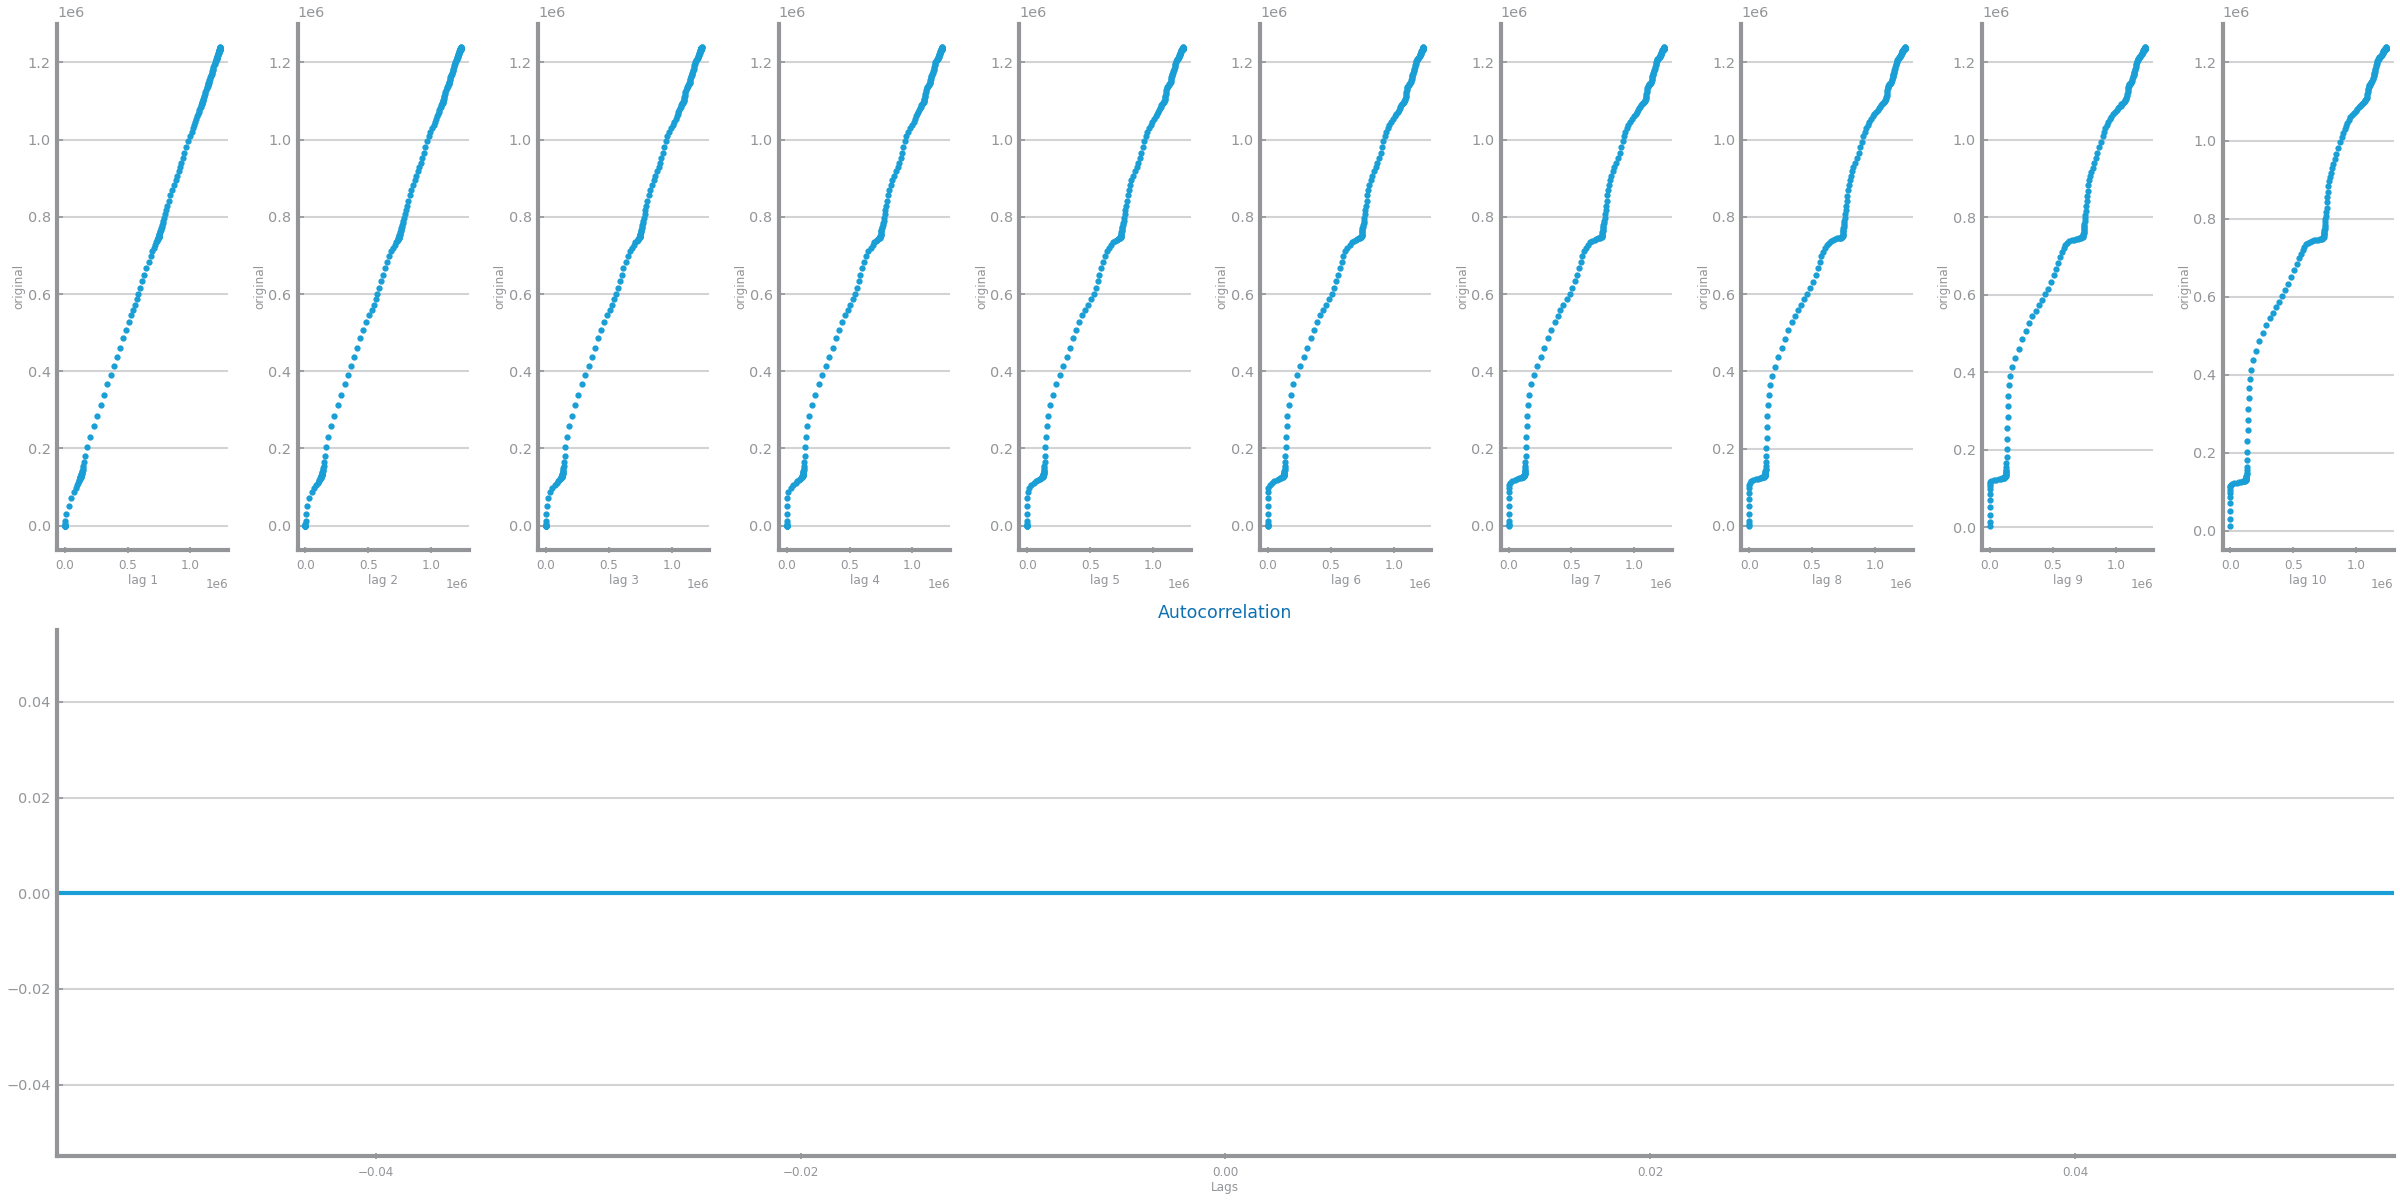
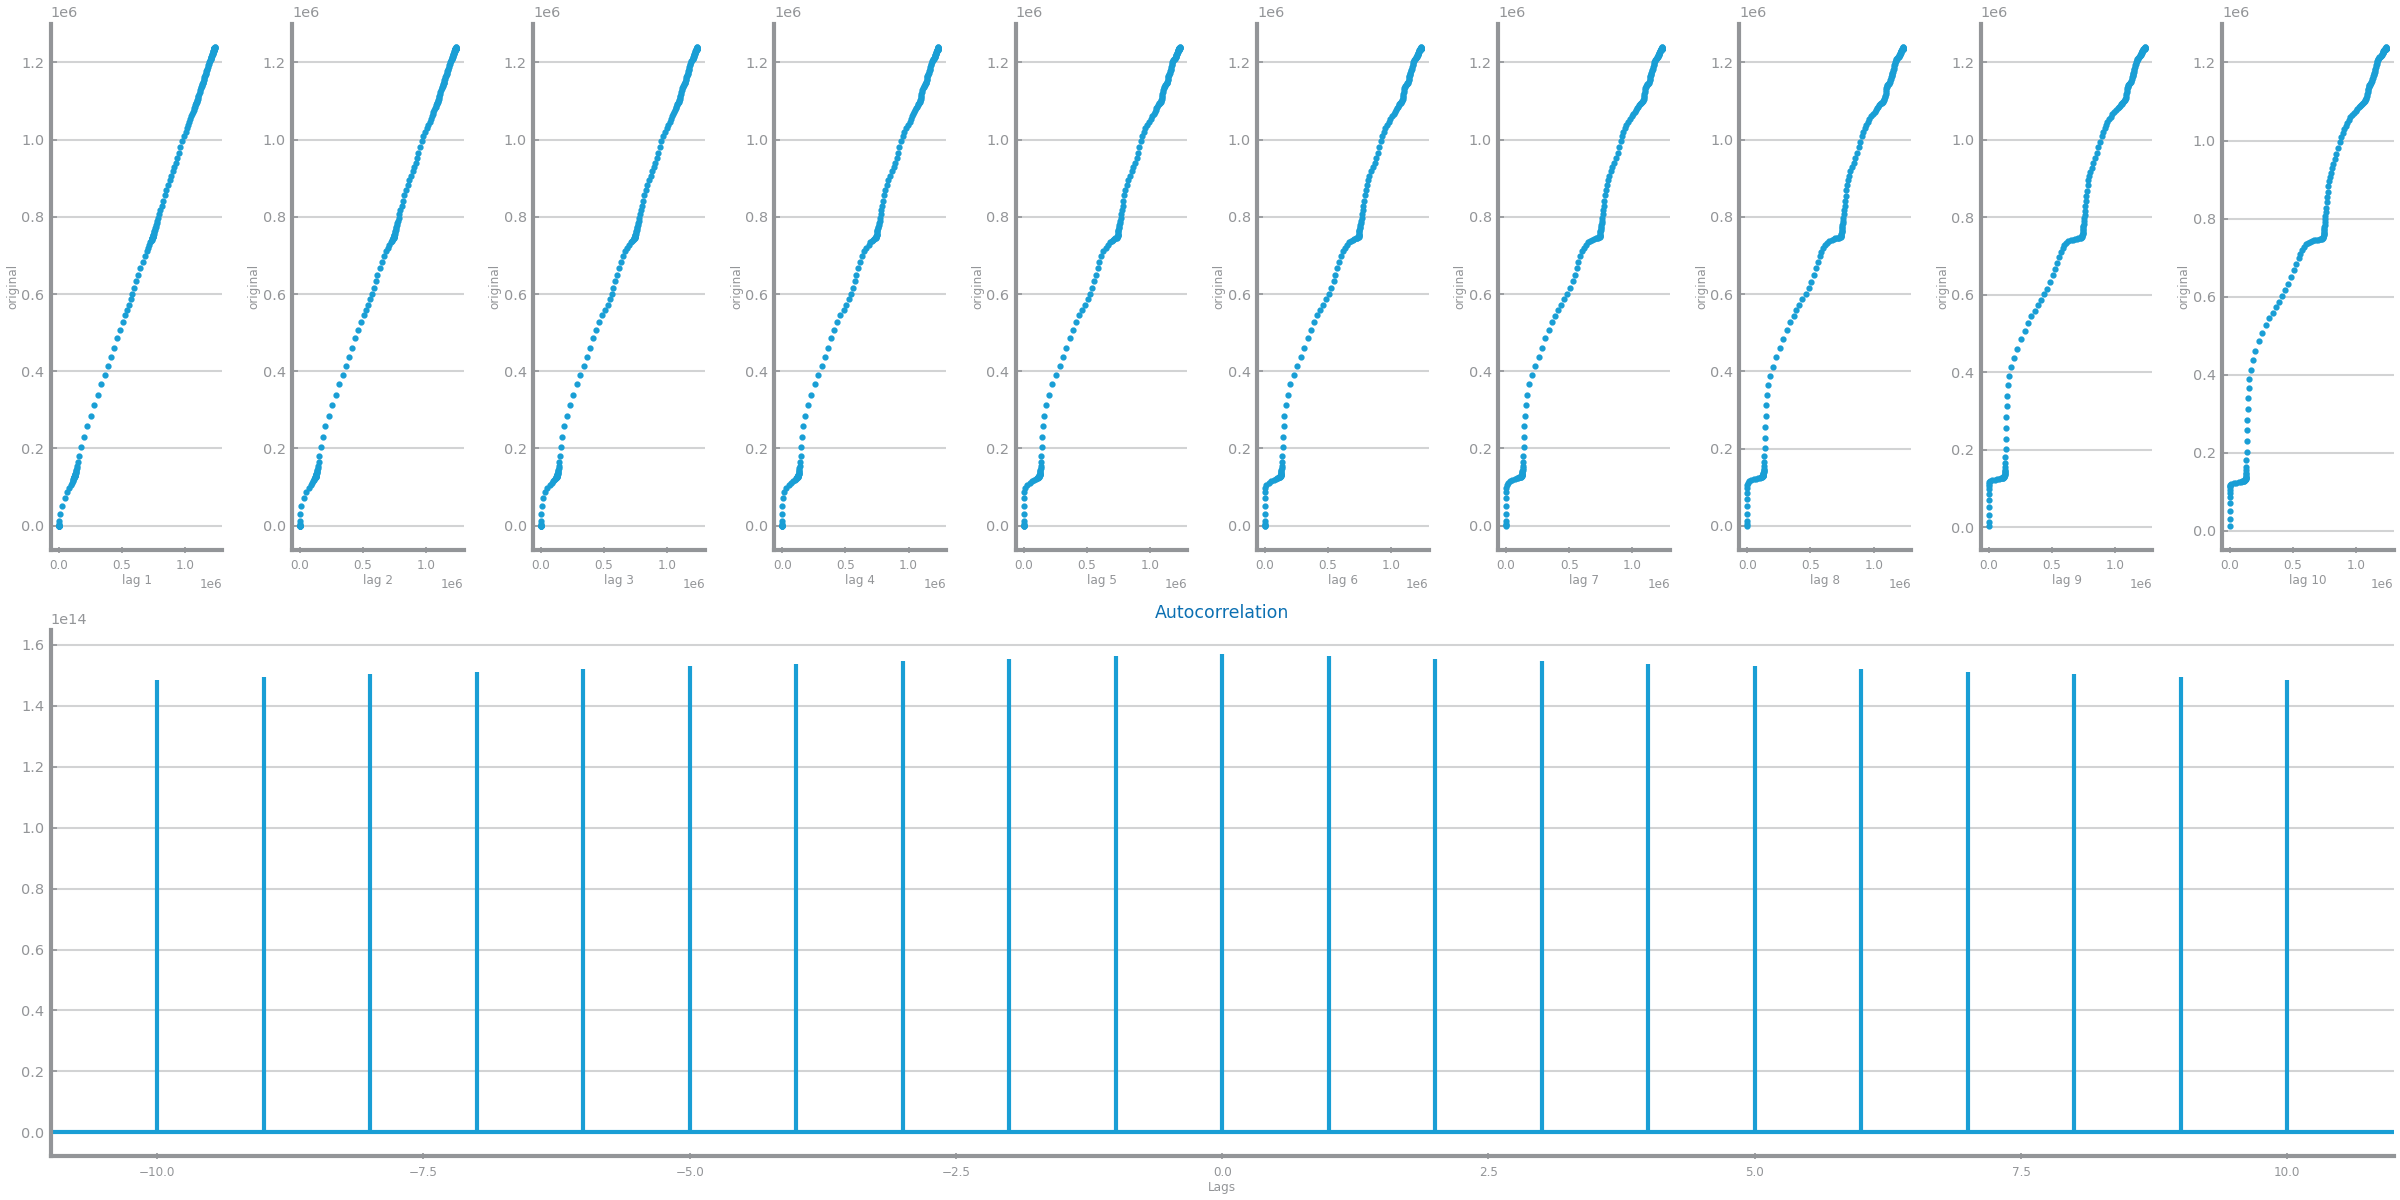
autocorr fixed

diff --git a/forecasting_health/profiling/config/dslabs_functions.py b/forecasting_health/profiling/config/dslabs_functions.py
@@ -934,7 +934,7 @@ def autocorrelation_study(series: Series, max_lag: int, delta: int = 1):
         ax.set_xlabel(f"lag {lag}")
         ax.set_ylabel("original")
     ax = fig.add_subplot(gs[1, :])
-    ax.acorr(series, maxlags=max_lag)
+    ax.acorr(series, maxlags=max_lag, normed=False)
     ax.set_title("Autocorrelation")
     ax.set_xlabel("Lags")
     return
